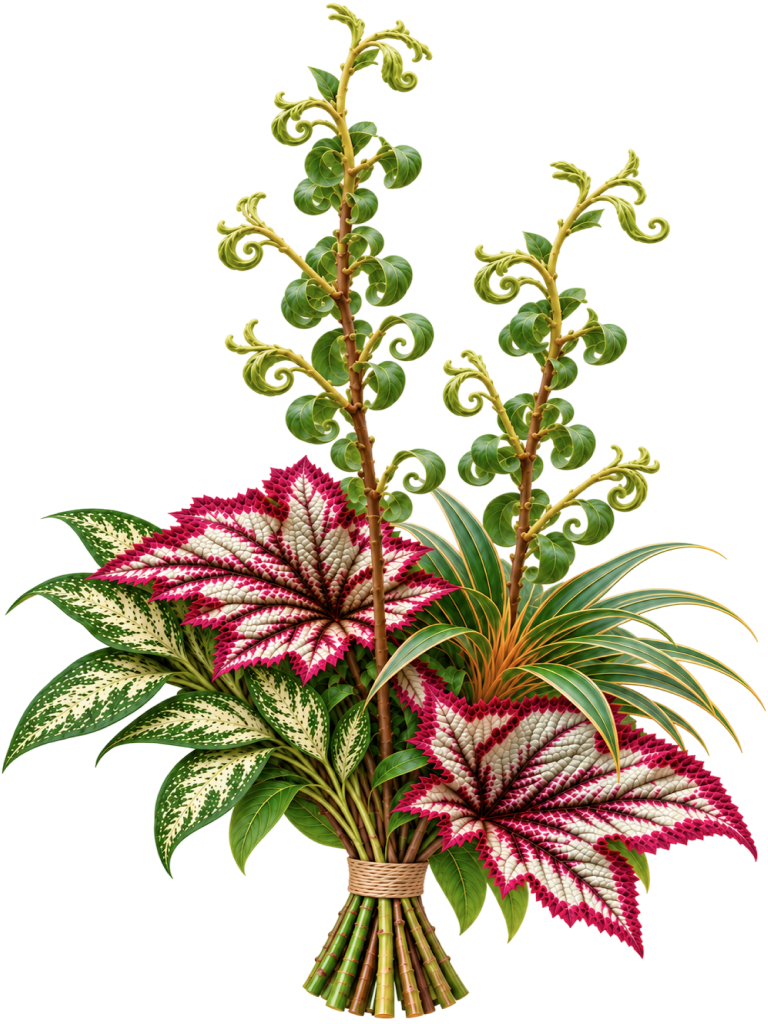
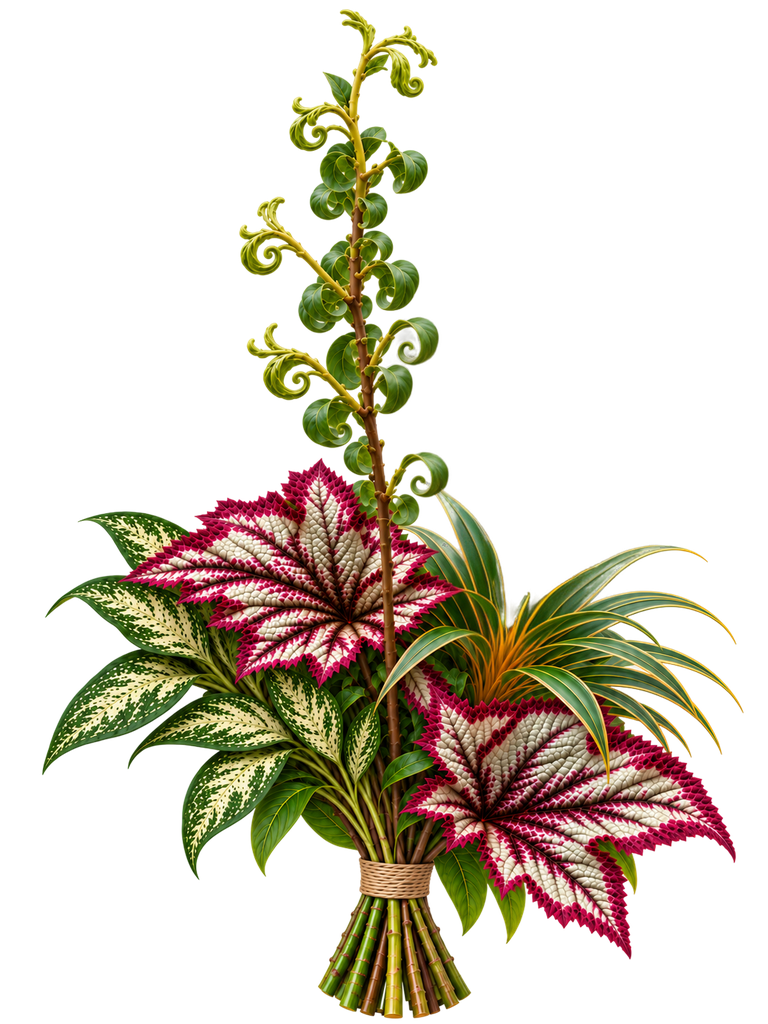
Lush: 운룡버들 1대로 시작해 인상 다듬기 '더 높고 길게'로 2대, 안내 추가
- 부케 구성 운룡버들 2 → 1, Bloom Preview·첫 AI 결과·카드 사진을 1대 버전으로
- 더 높고 길게: Line 역할 식물 하나 더 + 만드는 방법 안내, 적용하면 2대 사진으로
- 인상 다듬기 안내를 부케별 설정으로(Still 행잉 · Lush 더 높고 길게), 슬라이더 끝 링
- 인상 다듬기 버튼 안내 링을 사진 위에서도 보이게

diff --git a/src/pages/BloomPreview.jsx b/src/pages/BloomPreview.jsx
@@ -25,6 +25,19 @@ const WORD_GAP = 800 // 단어가 하나씩 나오는 간격
 // 부케 제작하기 다음 화면
 // preview: Bloom Preview (Figma 2268:21089) → ai: Bloom AI Preview (2268:21057)
 // → 말하는 중/입력 중 (2268:20786): 부케가 작아지고 말한 내용이 아래에 나타남
+// 시연 안내 (부케별): 첫 결과(from)에서 인상 다듬기로 이끌고, 적용해 바뀐 결과(to)에선 부케 제작하기로
+// Still: 화기 → 행잉 연출 / Lush: 더 높고 길게 (운룡버들 1 → 2)
+const DEMO_GUIDE = {
+  still: { from: 'still-vase', to: 'still-hanging', text: '인상을 다듬어 행잉으로 바꿔볼까요?', form: 'hanging' },
+  lush: { from: 'lush-wrap', to: 'lush-tall-wrap', text: '인상을 다듬어 더 높고 길게 해볼까요?', axis: { key: 'height', value: 1 } },
+}
+
+// 말로 요청했을 때 다음 결과: 인상 다듬기 전용 결과(tune)는 건너뜀
+function nextSpoken(results, i) {
+  for (let j = i + 1; j < results.length; j++) if (!results[j].tune) return j
+  return Math.max(i, 0)
+}
+
 function BloomPreview() {
   usePageBackground('#d9e4c8')
   const [leaving, leave] = usePageLeave(280)
@@ -115,7 +128,7 @@ function BloomPreview() {
   // 예시 문장을 단어 단위로 '듣는 중 → 확정' 순서로 이어 붙임
   const runDemo = () => {
     // 다음에 만들 결과에 맞는 예시 문장
-    const DEMO_WORDS = RESULTS[Math.min(resultIndex + 1, RESULTS.length - 1)].demo
+    const DEMO_WORDS = RESULTS[nextSpoken(RESULTS, resultIndex)].demo
     clearDemo()
     setWords([])
     setListening(true)
@@ -206,9 +219,10 @@ function BloomPreview() {
   // 시연 흐름: Still(연밥 부케)은 화기 결과에서 인상 다듬기로 '행잉'으로 바꿔 적용하도록 안내
   // AI 프리뷰 첫 화면: 아직 말하거나 입력하지 않았으면 마이크를 누르도록 안내
   const micGuide = mode === 'ai' && !input
-  const tuneGuide = bouquetType.key === 'still' && formOf(result?.key) === 'vase' ? 'hanging' : null
+  const demoGuide = DEMO_GUIDE[bouquetType.key]
+  const tuneGuide = demoGuide && result?.key === demoGuide.from ? demoGuide : null
   // 행잉으로 다듬어 적용한 뒤에는 '부케 제작하기'로 이어가도록 안내
-  const makeGuide = bouquetType.key === 'still' && formOf(result?.key) === 'hanging' && !!tuned
+  const makeGuide = !!demoGuide && result?.key === demoGuide.to && !!tuned
   const applyTune = (tune) => {
     if (!tuneBase) setTuneBase(cartItems.map((item) => ({ ...item })))
     if (!tuneBaseResult) setTuneBaseResult(result?.key)
@@ -228,11 +242,15 @@ function BloomPreview() {
     pendingTune.current = null
     // 가운데로 모두 되돌렸으면 조정 없음 (처음 구성 그대로)
     setTuned(tune?.words.length ? tune : null)
-    if (!tune) setResultIndex((i) => Math.min(i + 1, getActiveBouquet().results.length - 1))
+    if (!tune) setResultIndex((i) => nextSpoken(getActiveBouquet().results, i))
     // 고른 연출의 사진이 있으면 그 결과로 (없으면 사진은 그대로, 소재 목록에만 반영)
+    // 같은 연출에 '인상 다듬기 전용' 사진(tune)이 있으면 고른 인상과 맞을 때 그 사진, 아니면 기본 사진
     else {
-      const idx = getActiveBouquet().results.findIndex((r) => formOf(r.key) === tune.form)
-      if (idx >= 0) setResultIndex(idx)
+      const results = getActiveBouquet().results
+      const sameForm = results.map((r, i) => ({ r, i })).filter(({ r }) => formOf(r.key) === tune.form)
+      const matches = (r) => Object.entries(r.tune).every(([axis, v]) => Math.sign(tune.values?.[axis] ?? 0) === v)
+      const pick = sameForm.find(({ r }) => r.tune && matches(r)) ?? sameForm.find(({ r }) => !r.tune)
+      if (pick) setResultIndex(pick.i)
     }
     setMode('result')
     setInput(null)
@@ -388,10 +406,10 @@ function BloomPreview() {
       {/* 시연 안내 (Still): 아래 버튼 바로 위 한 줄 */}
       {mode === 'result' && !active && !generating && (tuneGuide || makeGuide) && (
         <p className="bp-tune-guide" role="status" key={tuneGuide ? 'tune' : 'make'}>
-          {tuneGuide ? '인상을 다듬어 행잉으로 바꿔볼까요?' : '이제 실제로 만들어볼까요?'}
+          {tuneGuide ? tuneGuide.text : '이제 실제로 만들어볼까요?'}
         </p>
       )}
-      {tuneOpen && <TuneSheet items={tuneItems} initial={tuned} baseForm={baseForm} photoForms={photoForms} baseDecor={baseDecor} guideForm={tuneGuide} onApply={applyTune} onClose={() => setTuneOpen(false)} />}
+      {tuneOpen && <TuneSheet items={tuneItems} initial={tuned} baseForm={baseForm} photoForms={photoForms} baseDecor={baseDecor} guideForm={tuneGuide?.form} guideAxis={tuneGuide?.axis} onApply={applyTune} onClose={() => setTuneOpen(false)} />}
 
       {/* 결과 하단: 부케 제작하기 + 옆 동그란 버튼은 인상 다듬기 (조형 미세조정) */}
       {mode === 'result' && !active && (

diff --git a/src/data/bouquets.js b/src/data/bouquets.js
@@ -22,12 +22,14 @@ import emberCard from '../assets/cards/ember-card.jpg'
 import gladeCard from '../assets/cards/glade-card.jpg'
 import swayCard from '../assets/cards/sway-card.jpg'
 import lushCard from '../assets/cards/lush-card.jpg'
+import lushCardFirst from '../assets/cards/lush-card-first.jpg'
 import gladePreview from '../assets/bouquets/glade-preview.png'
 import gladeResult from '../assets/bouquets/glade-result.jpg'
 import swayPreview from '../assets/bouquets/sway-preview.png'
 import swayResult from '../assets/bouquets/sway-result.jpg'
 import lushPreview from '../assets/bouquets/lush-preview.png'
 import lushResult from '../assets/bouquets/lush-result.jpg'
+import lushResultFirst from '../assets/bouquets/lush-result-first.jpg'
 // 홈 My Blooms 카드용 누끼 (배경 없이 부케만)
 import groveCutout from '../assets/main/grove-cutout.png'
 import rambleCutout from '../assets/main/ramble-cutout.png'
@@ -48,6 +50,7 @@ import lushCutout from '../assets/main/lush-cutout.png'
 //   shade: 위쪽 그라데이션 [높이, 색, 맨 위 진하기, 진하게 유지되는 구간(기본 0%)] · fade: 아래 그라데이션 [높이, 아래로 넘친 길이, 색, 진하기, 진해지는 지점]
 //   demo: 음성 인식 대신 쓰는 예시 문장(단어) · label: 홈 카드에 보일 이름
 //   hero: 완성 화면 위 사진 { image, size, top, x } · heroShade: 그 위 그라데이션 (shade와 같은 형식) · card: 카드 앞면 사진
+//   tune: 인상 다듬기로만 나오는 결과 — 고른 인상이 이 값과 같을 때 (예: { height: 1 } = 더 높고 길게). 같은 연출 안에서 이 결과로 바뀜
 
 export const BOUQUETS = [
   {
@@ -329,17 +332,36 @@ export const BOUQUETS = [
     water: '2~3일 교체',
     summary: '민감도 제한 없이, 오래 감상할 수 있도록 풍성하게 구성했어요.',
     desc: '자비타의 무늬진 잎과 드라세나로 구조를 잡고 렉스 베고니아로 선명한 색을 더했어요. 운룡버들로 동그랗게 말린 곡선을 높이 세워 화려한 분위기를 냈어요.',
+    // 운룡버들은 처음엔 1대 — 인상 다듬기 '더 높고 길게'에서 Line 역할로 1대 더 (Figma 2881:3678 원래 구성은 2대)
     recipe: [
       ['드라세나', 1],
       ['자비타', 2],
-      ['운룡버들', 2],
+      ['운룡버들', 1],
       ['렉스 베고니아', 2],
     ],
     preview: { image: lushPreview, box: [314, 419, 0, 224], listen: [279, 372, 224] },
     results: [
+      // 마이크로 처음 요청한 결과: 운룡버들 1대 (Figma 3833:458)
       {
         key: 'lush-wrap',
         label: 'Wrap Preview',
+        image: lushResultFirst,
+        size: [563, 844],
+        pos: [-23.5, 0],
+        bg: '#62625a',
+        shade: [229, '98, 98, 89', 0.41],
+        fade: [220, 0, '98, 98, 89', 0.9, '95.981%'],
+        demo: ['레이스로', '꾸며서', '다발로', '묶어줘'],
+        hero: { image: lushResultFirst, size: [390, 584], top: -50 },
+        heroShade: [274, '98, 98, 89', 0.6],
+        card: lushCardFirst,
+        cutout: lushCutout,
+      },
+      // 인상 다듬기 '더 높고 길게': 운룡버들 2대로 더 높게 (같은 다발 연출)
+      {
+        key: 'lush-tall-wrap',
+        label: 'Wrap Preview',
+        tune: { height: 1 },
         image: lushResult,
         size: [563, 844],
         pos: [-23.5, 0],

diff --git a/src/data/tune.js b/src/data/tune.js
@@ -2,13 +2,17 @@ import { useSyncExternalStore } from 'react'
 import { PLANTS } from './plants'
 
 // 인상 다듬기: 일상어(형용사) → 실제 구성 변화.
-// 풍성함만 식물 수량을 바꾸고, 높이·정돈은 수량 그대로 만드는 방법(줄기 길이·꽂는 방식)으로 안내
+// 풍성함·높이는 식물 수량을 바꾸고, 정돈은 수량 그대로 만드는 방법(꽂는 방식)으로 안내
 // 더 풍성하게: Volume 역할 식물을 한 칸 더 / 더 가볍게: Structure 역할 식물을 한 대 덜 (0이면 구성에서 빠짐)
+// 더 높고 길게: Line 역할 식물을 하나 더 (Lush 운룡버들 1 → 2) — 더 낮게는 줄기만 짧게
 // fallback: 그 역할 식물이 없는 부케(Grove)는 이 역할에서 — Grove 더 가볍게 = 트리펀 3 → 2
 const AXIS_EFFECT = {
   volume: {
     plus: { role: 'volume', dir: 1, min: 1 },
     minus: { role: 'structure', fallback: 'volume', dir: -1, min: 0, step: 1 },
+  },
+  height: {
+    plus: { role: 'line', dir: 1, min: 1, step: 1 },
   },
 }
 
@@ -24,10 +28,21 @@ const AXIS_GUIDE = {
   },
 }
 
-// 고른 인상 → 만드는 방법 문장
-export function guidesFor(values) {
+// 받침에 따라 을/를
+const withObject = (word) => {
+  const code = word.charCodeAt(word.length - 1) - 0xac00
+  return `${word}${code >= 0 && code <= 11171 && code % 28 !== 0 ? '을' : '를'}`
+}
+
+// 고른 인상 → 만드는 방법 문장 (changes: 바뀐 수량 — 더 높고 길게로 Line 식물을 더했으면 그 식물 이름으로 안내)
+export function guidesFor(values, changes = []) {
   return Object.entries(AXIS_GUIDE)
-    .map(([axis, guide]) => (values[axis] ? guide[values[axis] > 0 ? 'plus' : 'minus'] : null))
+    .map(([axis, guide]) => {
+      if (!values[axis]) return null
+      const line = axis === 'height' && values[axis] > 0 && changes.find((c) => c.role === 'line')
+      if (line) return `Line 역할을 하는 ${withObject(line.name)} 하나 더 넣고, 줄기를 길게 남겨 위로 세워 꽂아요.`
+      return guide[values[axis] > 0 ? 'plus' : 'minus']
+    })
     .filter(Boolean)
 }
 
@@ -61,7 +76,7 @@ export function planTune(items, values) {
   const priceOf = (list) =>
     list.reduce((sum, { name, qty }) => sum + (PLANTS.find((p) => p.name === name)?.price ?? 0) * qty, 0)
   // 0이 된 식물은 구성에서 빠짐 (담은 식물 수량을 0으로 두면 목록에서 지워짐)
-  return { next, changes, guides: guidesFor(values), priceFrom: priceOf(items), priceTo: priceOf(next) }
+  return { next, changes, guides: guidesFor(values, changes), priceFrom: priceOf(items), priceTo: priceOf(next) }
 }
 
 // 이번 부케에 적용한 인상 (장식 선택은 연출 소재 목록에도 쓰임) — 부케를 다 만들면 비움

diff --git a/src/components/TuneSheet.jsx b/src/components/TuneSheet.jsx
@@ -55,7 +55,8 @@ function describeSentence(values, decor, baseDecor, form, baseForm) {
 // baseForm: AI 결과의 원래 연출(wrap · vase · hanging) / photoForms: 사진이 준비된 연출
 // baseDecor: AI 결과에 이미 들어간 장식 (예: 진주로 꾸며서 → pearl) — 처음부터 선택돼 있음
 // guideForm: 시연 흐름에서 골라보도록 안내할 연출 (예: Still → 'hanging') — 그 칩, 고른 뒤엔 적용 버튼이 은은하게 숨 쉼
-function TuneSheet({ items, initial, baseForm, photoForms, baseDecor, guideForm, onApply, onClose }) {
+// guideAxis: 시연 흐름에서 옮겨보도록 안내할 슬라이더 { key, value } (예: Lush → 더 높고 길게) — 그 끝, 옮긴 뒤엔 적용 버튼
+function TuneSheet({ items, initial, baseForm, photoForms, baseDecor, guideForm, guideAxis, onApply, onClose }) {
   // 축마다 왼쪽(-1) · 가운데(0) · 오른쪽(1) 한 칸씩
   const [values, setValues] = useState(() =>
     Object.fromEntries(TUNE_AXES.map((axis) => [axis.key, Math.sign(initial?.values?.[axis.key] ?? 0)])),
@@ -143,7 +144,11 @@ function TuneSheet({ items, initial, baseForm, photoForms, baseDecor, guideForm,
 
           <div className="tune__axes">
             {TUNE_AXES.map((axis) => (
-              <div key={axis.key} className="tune-axis">
+              <div
+                key={axis.key}
+                className="tune-axis"
+                data-guide={(guideAxis?.key === axis.key && values[axis.key] !== guideAxis.value && (guideAxis.value > 0 ? 'right' : 'left')) || undefined}
+              >
                 <div className="tune-axis__labels">
                   <span data-on={values[axis.key] < 0}>{axis.left}</span>
                   <span data-on={values[axis.key] > 0}>{axis.right}</span>
@@ -242,7 +247,9 @@ function TuneSheet({ items, initial, baseForm, photoForms, baseDecor, guideForm,
         <button
           type="button"
           className="tune__apply"
-          data-guide={(!!guideForm && form === guideForm && changed) || undefined}
+          data-guide={
+            ((guideForm ? form === guideForm : !!guideAxis && values[guideAxis.key] === guideAxis.value) && changed) || undefined
+          }
           disabled={!changed}
           onClick={() =>
             onApply({

diff --git a/src/pages/BloomPreview.css b/src/pages/BloomPreview.css
@@ -210,14 +210,27 @@
   color: #fff;
 }
 
-/* 시연 안내 (Still): 인상 다듬기 동그란 버튼 둘레로 은은한 링 */
+/* 시연 안내 (Still · Lush): 인상 다듬기 동그란 버튼 — 가는 흰 선 링 하나가 은은하게 퍼짐 */
 .bp-result__tune[data-guide]::after {
   content: '';
   position: absolute;
-  inset: 0;
+  inset: -1px;
+  border: 1.5px solid rgba(255, 255, 255, 0.75);
   border-radius: 50%;
   pointer-events: none;
-  animation: bp-tune-guide 1.8s ease-out 1.4s infinite;
+  opacity: 0;
+  animation: bp-tune-ripple 2.2s ease-out 1.4s infinite;
+}
+
+@keyframes bp-tune-ripple {
+  0% {
+    opacity: 0.8;
+    scale: 1;
+  }
+  100% {
+    opacity: 0;
+    scale: 1.4;
+  }
 }
 
 .bp-result__mic:active {

diff --git a/src/components/TuneSheet.css b/src/components/TuneSheet.css
@@ -113,6 +113,30 @@
   color: #2a2a2a;
 }
 
+/* 시연 안내: 옮겨볼 쪽 끝(손잡이가 갈 자리)에 세이지 링이 숨 쉼 */
+.tune-axis[data-guide] {
+  position: relative;
+}
+
+.tune-axis[data-guide]::after {
+  content: '';
+  position: absolute;
+  bottom: 1px;
+  width: 22px;
+  height: 22px;
+  border-radius: 50%;
+  pointer-events: none;
+  animation: tune-guide 1.8s ease-out infinite;
+}
+
+.tune-axis[data-guide='right']::after {
+  right: 0;
+}
+
+.tune-axis[data-guide='left']::after {
+  left: 0;
+}
+
 /* 5칸 슬라이더 (가운데 = 지금 그대로) */
 .tune-axis__range {
   width: 100%;

diff --git a/CLAUDE.md b/CLAUDE.md
@@ -59,6 +59,7 @@ Product decisions to keep:
 - Fine-tune sheet has a fixed height (700px, max 90%); content scrolls inside and the apply button stays at the bottom.
 - AI preview result bar: "부케 제작하기" (was "실제 제작 준비하기") + a round sage Fine-tune (인상 다듬기) icon button next to it; there is no mic re-request on the result screen. The first AI preview screen guides the mic ("마이크를 눌러 원하는 연출을 말해보세요" + soft ring).
 - Still demo guide: vase result → "인상을 다듬어 행잉으로 바꿔볼까요?" (ring on the Fine-tune button, then on the 행잉 chip, then on 수정 적용하기) → after applying, "이제 실제로 만들어볼까요?" with a ring on 부케 제작하기.
+- Lush (유지력 + 무필터): recipe has 운룡버들 1 (Figma originally 2). The mic gives the first result `lush-wrap` (Figma 3833:458, one willow); Fine-tune "더 높고 길게" adds one Line plant (운룡버들 1→2, guide "Line 역할을 하는 운룡버들을 하나 더 넣고…") and switches to `lush-tall-wrap` (the original two-willow photo). Results with `tune: {...}` appear only through Fine-tune, never from the mic. "더 높고 길게" adds one Line plant for every bouquet. Lush preview image (Bloom Preview / AI preview) is the one-willow version (Figma 2881:3646). Lush demo guide: "인상을 다듬어 더 높고 길게 해볼까요?" → ring at the right end of the height slider → 수정 적용하기 → 부케 제작하기 (same pattern as Still; config `DEMO_GUIDE` in `BloomPreview.jsx`). The home My Blooms cutout is still the two-willow image.
 - Final Preview subtitle states what changed (e.g. "행잉 연출로 바꿨어요."); no tag chip under it.
 - Styling cost always follows the current result's form plus Fine-tune choices (Still vase 9,000 vs hanging 14,000), for every bouquet.
 - Make This Bloom shows only the estimated cost (no budget comparison/over-budget line, even for 예산 순).
